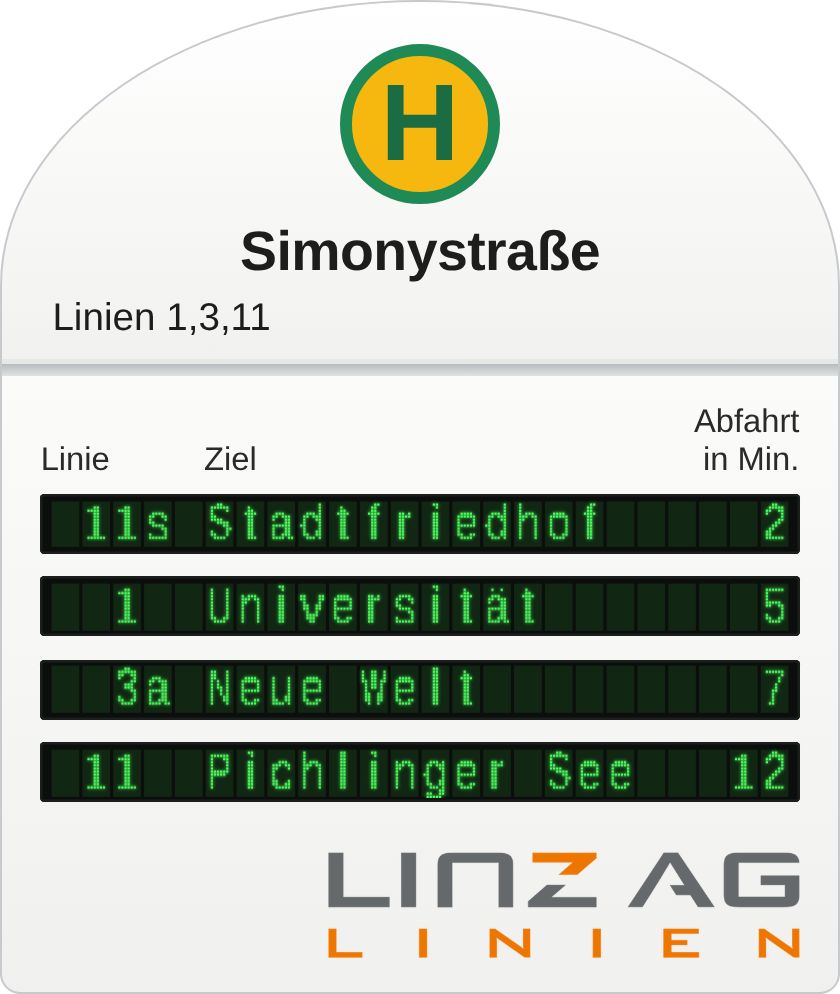
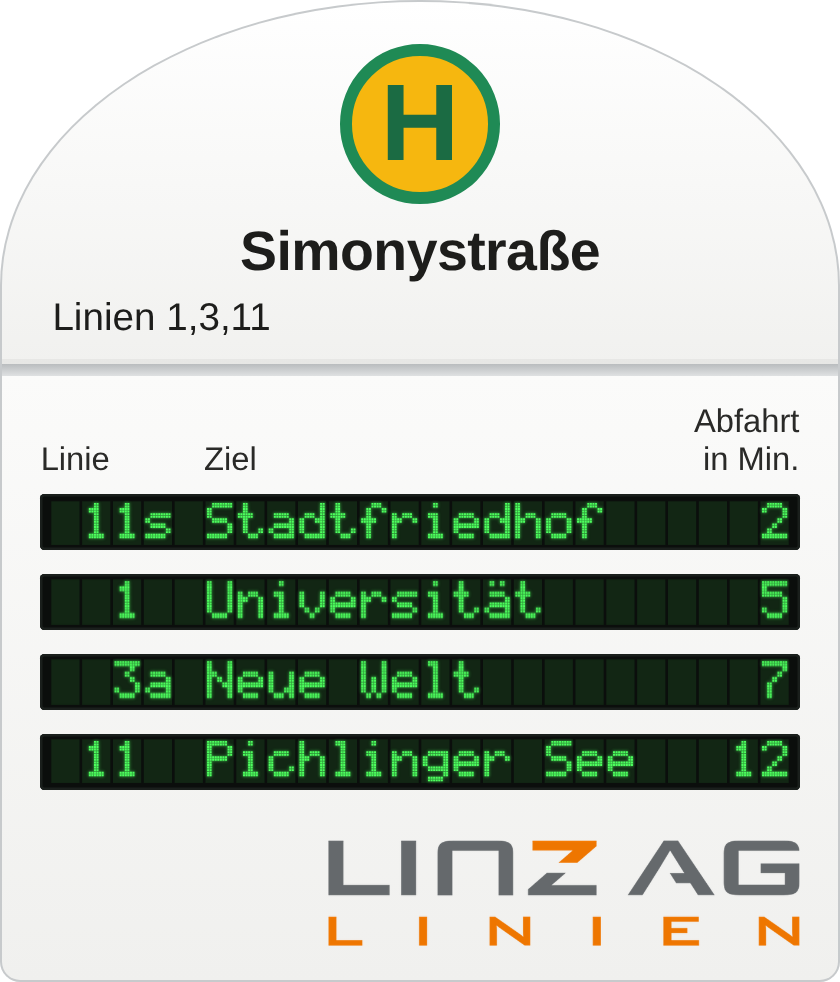
DFI: 5x7-LED-Schrift mit doppelten Punkten, Kurzname Stieglbauernstr.
- eigene 5x7-Punkt-Schrift (wie an der echten Anzeige), jeder Schrift-Punkt
  als 2x2 feine LED-Punkte -> Striche 2 Punkte dick, m/a/e bleiben offen
- 88 Zeichen inkl. Ä Ö Ü ß und Satzzeichen, Akzente werden vereinfacht (é -> e)
- quadratische Punkte, Zeichenfeld 12 x 18 Punkte
- Kurzname nur in der DFI: Stieglbauernstraße -> Stieglbauernstr.
- README, Vorschaubild und Animation aktualisiert

Claude-Session: https://claude.ai/code/session_01UGasuBwGSLjhjSTvDMnsjH

diff --git a/custom_components/linz_ag_monitor/frontend/linz-linien-combined.js b/custom_components/linz_ag_monitor/frontend/linz-linien-combined.js
@@ -53,20 +53,110 @@ const LINZ_ASSET_BASE = (() => {
 
 // LED-Raster der Haltestellen-Säule: 24 Zeichen, Zeichenfeld 10 x 16 Punkte, Glyphe 8 x 14 Punkte
 const STELE_COLS = 24;
-const STELE_CELL_W = 10;
-const STELE_CELL_H = 16;
-const STELE_GLYPH_W = 8;
-const STELE_FONT_PX = 16.5;
-const STELE_BASELINE = 12.6;
-const STELE_THRESHOLD = 110;
-const STELE_MIN_W = 3;               // Abfahrtsminuten: Feld 22-24
-const STELE_FONT_WEIGHT = "normal";   // "bold" = dickere Zeichen
+const STELE_DOT = 2;                  // 1 Schrift-Punkt = 2 x 2 LED-Punkte ("doppelte Punkte")
+const STELE_CELL_W = 12;              // Zeichenfeld: 5 x 2 = 10 Punkte + je 1 Rand
+const STELE_CELL_H = 18;              // 8 x 2 = 16 Punkte + je 1 Rand
+const STELE_MIN_W = 3;                // Abfahrtsminuten: Feld 22-24
+const STELE_DOT_ASPECT = 1;           // 1 = quadratische LED-Punkte (größer = höhere, schlankere Zeichen)
+// 5x8-LED-Schrift wie an der echten Anzeige (Zeile 0-6 Zeichen, Zeile 7 Unterlänge).
+// Jede Zeile = 5 Bits (links = höchstes Bit). Jeder Schrift-Punkt wird als 2x2 feine LED-Punkte gezeichnet.
+const STELE_FONT = {
+  "0": [14,17,19,21,25,17,14,0],
+  "1": [4,12,4,4,4,4,14,0],
+  "2": [14,17,1,2,4,8,31,0],
+  "3": [31,2,4,2,1,17,14,0],
+  "4": [2,6,10,18,31,2,2,0],
+  "5": [31,16,30,1,1,17,14,0],
+  "6": [6,8,16,30,17,17,14,0],
+  "7": [31,1,2,4,8,8,8,0],
+  "8": [14,17,17,14,17,17,14,0],
+  "9": [14,17,17,15,1,2,12,0],
+  "A": [14,17,17,17,31,17,17,0],
+  "B": [30,17,17,30,17,17,30,0],
+  "C": [14,17,16,16,16,17,14,0],
+  "D": [28,18,17,17,17,18,28,0],
+  "E": [31,16,16,30,16,16,31,0],
+  "F": [31,16,16,30,16,16,16,0],
+  "G": [14,17,16,23,17,17,15,0],
+  "H": [17,17,17,31,17,17,17,0],
+  "I": [14,4,4,4,4,4,14,0],
+  "J": [7,2,2,2,2,18,12,0],
+  "K": [17,18,20,24,20,18,17,0],
+  "L": [16,16,16,16,16,16,31,0],
+  "M": [17,27,21,21,17,17,17,0],
+  "N": [17,17,25,21,19,17,17,0],
+  "O": [14,17,17,17,17,17,14,0],
+  "P": [30,17,17,30,16,16,16,0],
+  "Q": [14,17,17,17,21,18,13,0],
+  "R": [30,17,17,30,20,18,17,0],
+  "S": [15,16,16,14,1,1,30,0],
+  "T": [31,4,4,4,4,4,4,0],
+  "U": [17,17,17,17,17,17,14,0],
+  "V": [17,17,17,17,17,10,4,0],
+  "W": [17,17,17,21,21,21,10,0],
+  "X": [17,17,10,4,10,17,17,0],
+  "Y": [17,17,10,4,4,4,4,0],
+  "Z": [31,1,2,4,8,16,31,0],
+  "Ä": [10,0,14,17,31,17,17,0],
+  "Ö": [10,0,14,17,17,17,14,0],
+  "Ü": [10,0,17,17,17,17,14,0],
+  "a": [0,0,14,1,15,17,15,0],
+  "b": [16,16,22,25,17,17,30,0],
+  "c": [0,0,14,16,16,17,14,0],
+  "d": [1,1,13,19,17,17,15,0],
+  "e": [0,0,14,17,31,16,14,0],
+  "f": [6,9,8,28,8,8,8,0],
+  "g": [0,0,15,17,17,15,1,14],
+  "h": [16,16,22,25,17,17,17,0],
+  "i": [4,0,12,4,4,4,14,0],
+  "j": [2,0,6,2,2,2,18,12],
+  "k": [16,16,18,20,24,20,18,0],
+  "l": [12,4,4,4,4,4,14,0],
+  "m": [0,0,26,21,21,21,21,0],
+  "n": [0,0,22,25,17,17,17,0],
+  "o": [0,0,14,17,17,17,14,0],
+  "p": [0,0,30,17,17,30,16,16],
+  "q": [0,0,15,17,17,15,1,1],
+  "r": [0,0,22,25,16,16,16,0],
+  "s": [0,0,15,16,14,1,30,0],
+  "t": [8,8,28,8,8,9,6,0],
+  "u": [0,0,17,17,17,19,13,0],
+  "v": [0,0,17,17,17,10,4,0],
+  "w": [0,0,17,17,21,21,10,0],
+  "x": [0,0,17,10,4,10,17,0],
+  "y": [0,0,17,17,17,15,1,14],
+  "z": [0,0,31,2,4,8,31,0],
+  "ä": [10,0,14,1,15,17,15,0],
+  "ö": [10,0,14,17,17,17,14,0],
+  "ü": [10,0,17,17,17,19,13,0],
+  "ß": [12,18,18,20,18,17,22,0],
+  ".": [0,0,0,0,0,12,12,0],
+  ",": [0,0,0,0,0,12,4,8],
+  "-": [0,0,0,31,0,0,0,0],
+  "+": [0,4,4,31,4,4,0,0],
+  "*": [0,4,21,14,21,4,0,0],
+  "/": [1,2,2,4,8,8,16,0],
+  ":": [0,12,12,0,12,12,0,0],
+  "(": [2,4,8,8,8,4,2,0],
+  ")": [8,4,2,2,2,4,8,0],
+  "&": [12,18,20,8,21,18,13,0],
+  "'": [4,4,8,0,0,0,0,0],
+  "\"": [10,10,0,0,0,0,0,0],
+  "!": [4,4,4,4,4,0,4,0],
+  "?": [14,17,1,2,4,0,4,0],
+  "|": [4,4,4,4,4,4,4,0],
+  "<": [2,4,8,16,8,4,2,0],
+  ">": [8,4,2,1,2,4,8,0],
+  "=": [0,0,31,0,31,0,0,0],
+  "%": [24,25,2,4,8,19,3,0],
+};
 
 // Kurznamen nur für die Haltestellen-Anzeige (DFI) – die anderen Designs schreiben aus
 const STELE_DEST_SHORT = [
   [/^Fernheizkraftwerk$/i, "Fernheizwerk"],
   [/^Remise Kleinmünchen$/i, "Kleinmünchen"],
   [/^Trauner Kreuzung\s*P\s*(\+|&|und)\s*R$/i, "Trauner Kreuzung"],
+  [/^Stieglbauernstraße$/i, "Stieglbauernstr."],
 ];
 const steleShortDest = (t) => {
   const s = String(t || "").trim();
@@ -1296,8 +1386,8 @@ class LinzMonitorCombined extends HTMLElement {
             box-shadow: inset 0 0 0 0.3cqw #1a1f1c;
             padding: 0.6cqw 1.2%; box-sizing: border-box; line-height: 0;
           }
-          /* 24 Zeichen x (10 x 16 Punkte) -> Seitenverhältnis 240:16 */
-          .st-row canvas { display: block; width: 100%; aspect-ratio: 15 / 1; }
+          /* 24 Zeichen x (12 x 18 Punkte) -> Seitenverhältnis 288 : 18 (bei STELE_DOT_ASPECT 1) */
+          .st-row canvas { display: block; width: 100%; aspect-ratio: ${288 / (18 * STELE_DOT_ASPECT)} / 1; }
 
           /* --- Fußbereich --- */
           .st-foot { position: relative; margin-top: 6cqw; min-height: 10cqw; display: flex; justify-content: flex-end; align-items: flex-end; }
@@ -1463,14 +1553,9 @@ class LinzMonitorCombined extends HTMLElement {
     });
   }
 
-  /* Eine LED-Zeile zeichnen: 24 Zeichenfelder, je 8 x 14 leuchtende Punkte ("doppelte" Auflösung) */
+  /* Eine LED-Zeile zeichnen: 24 Zeichenfelder, 5x7-LED-Schrift, jeder Schrift-Punkt = 2x2 LED-Punkte */
   _drawSteleRow(cv, text, LED) {
-    const PX = STELE_CELL_W, PY = STELE_CELL_H, W = STELE_COLS * PX, H = PY;
-    if (!this._steleRaster) {
-      this._steleRaster = document.createElement("canvas");
-      this._steleRaster.width = W; this._steleRaster.height = H;
-    }
-    const rc = this._steleRaster.getContext("2d", { willReadFrequently: true });
+    const PX = STELE_CELL_W, PY = STELE_CELL_H, W = STELE_COLS * PX, H = PY, D = STELE_DOT;
 
     const m = /^#?([0-9a-f]{6})$/i.exec(String(LED).trim());
     let cellColor = "#132016";
@@ -1481,39 +1566,41 @@ class LinzMonitorCombined extends HTMLElement {
 
     const dpr = window.devicePixelRatio || 1;
     const cssW = cv.clientWidth || 300;
-    const cw = Math.max(W, Math.round(cssW * dpr)), ch = Math.round(cw * H / W);
+    const cw = Math.max(W, Math.round(cssW * dpr)), ch = Math.round(cw * H * STELE_DOT_ASPECT / W);
     if (cv.width !== cw || cv.height !== ch) { cv.width = cw; cv.height = ch; }
     const ctx = cv.getContext("2d");
-    const dot = cw / W;
-
-    // Text klein rastern (1 Pixel = 1 LED-Punkt)
-    rc.clearRect(0, 0, W, H);
-    rc.fillStyle = "#fff";
-    rc.font = `${STELE_FONT_WEIGHT} ${STELE_FONT_PX}px Arial, Helvetica, sans-serif`;
-    rc.textBaseline = "alphabetic";
-    Array.from(text).slice(0, STELE_COLS).forEach((c, i) => {
-      if (c === " ") return;
-      const w = Math.min(rc.measureText(c).width, STELE_GLYPH_W);
-      rc.fillText(c, i * PX + 1 + (STELE_GLYPH_W - w) / 2, STELE_BASELINE, STELE_GLYPH_W);
-    });
-    const px = rc.getImageData(0, 0, W, H).data;
+    const dot = cw / W, dotY = dot * STELE_DOT_ASPECT;
 
     // Hintergrund + dunkle Zeichenfelder (alle gleich groß)
     ctx.fillStyle = "#0b0e0c";
     ctx.fillRect(0, 0, cw, ch);
     ctx.fillStyle = cellColor;
     for (let i = 0; i < STELE_COLS; i++) {
-      ctx.fillRect((i * PX + 0.5) * dot, 0.5 * dot, (PX - 1) * dot, (PY - 1) * dot);
+      ctx.fillRect((i * PX + 0.5) * dot, 0.5 * dotY, (PX - 1) * dot, (PY - 1) * dotY);
     }
 
-    // leuchtende Punkte (quadratisch, schmale Fuge, leichtes Leuchten)
-    const gap = dot * 0.14;
+    // leuchtende Punkte
+    const gap = dot * 0.12;
     ctx.beginPath();
-    for (let y = 0; y < H; y++) {
-      for (let x = 0; x < W; x++) {
-        if (px[(y * W + x) * 4 + 3] > STELE_THRESHOLD) ctx.rect(x * dot + gap, y * dot + gap, dot - 2 * gap, dot - 2 * gap);
+    Array.from(text).slice(0, STELE_COLS).forEach((c, i) => {
+      let g = STELE_FONT[c];
+      if (!g) {
+        const plain = c.normalize("NFD").replace(/[̀-ͯ]/g, "");   // é -> e usw.
+        g = STELE_FONT[plain] || STELE_FONT[plain.toUpperCase()] || null;
       }
-    }
+      if (!g) return;
+      for (let r = 0; r < 8; r++) {
+        const bits = g[r];
+        if (!bits) continue;
+        for (let col = 0; col < 5; col++) {
+          if (!(bits & (16 >> col))) continue;
+          for (let dy = 0; dy < D; dy++) for (let dx = 0; dx < D; dx++) {
+            const x = i * PX + 1 + col * D + dx, y = 1 + r * D + dy;
+            ctx.rect(x * dot + gap, y * dotY + gap, dot - 2 * gap, dotY - 2 * gap);
+          }
+        }
+      }
+    });
     ctx.fillStyle = LED;
     ctx.shadowColor = LED;
     ctx.shadowBlur = dot * 1.2;

diff --git a/README.md b/README.md
@@ -15,7 +15,7 @@ Live‑Daten der Linz AG Linien, smarte Einrichtung per Text- oder Kartensuche u
 ---
 
 ## 🆕 Neu in v1.8.3
-* **Haltestellen-Säule:** dünnere LED-Zeichen, Kurznamen wie an der echten Anzeige (Fernheizwerk, Kleinmünchen, Trauner Kreuzung) und feste 24-Felder-Zeilen wie am Original – Linie (Feld 1–3), Zusatz wie `a`, `*`, `s` (Feld 4), Ziel bzw. Sonderinformation (Feld 6–21, läuft bei Überlänge Feld für Feld durch), Abfahrtsminuten (Feld 22–24, max. 99 Minuten). Zusatzinfos wie „Verspätung bitte Geduld“ wechseln sich mit dem Ziel ab. Doppelt so feine LED-Punkte.
+* **Haltestellen-Säule:** neue 5 × 7-LED-Schrift wie am Original (jeder Punkt doppelt), Kurznamen wie an der echten Anzeige (Fernheizwerk, Kleinmünchen, Trauner Kreuzung, Stieglbauernstr.) und feste 24-Felder-Zeilen wie am Original – Linie (Feld 1–3), Zusatz wie `a`, `*`, `s` (Feld 4), Ziel bzw. Sonderinformation (Feld 6–21, läuft bei Überlänge Feld für Feld durch), Abfahrtsminuten (Feld 22–24, max. 99 Minuten). Zusatzinfos wie „Verspätung bitte Geduld“ wechseln sich mit dem Ziel ab. 
 
 ## 🆕 Neu in v1.8.0
 * **5. Design „Haltestellen-Säule“:** Originalgetreuer Nachbau der Linz AG Anzeige an der Haltestelle – H-Schild, Haltestellenname, Linien-Zeile und grüne LED-Zeilen mit fester 24-Felder-Matrix (feine Punkte, 8 × 14 pro Zeichen, Laufschrift für lange Ziele und Zusatzinfos) und Linz AG Linien Logo (nur die Tafel, ohne Mast). Das Logo wird lokal aus der Integration geladen.
@@ -98,8 +98,8 @@ Originalgetreuer Nachbau der dynamischen Fahrgastinformation (DFI) an den Linz A
 
 * **Laufschrift:** Ist ein Ziel oder eine Information länger als 16 Felder, läuft der Text Feld für Feld nach links – mit kurzer Pause am Anfang und am Ende, damit jedes Wort lesbar ist.
 * **Sonderinformationen** wie „Verspätung bitte Geduld“ oder „Fällt aus“ wechseln sich im Zielfeld mit dem Ziel ab.
-* **Kurznamen wie an der echten Anzeige** (nur in diesem Design): Fernheizkraftwerk → *Fernheizwerk*, Remise Kleinmünchen → *Kleinmünchen*, Trauner Kreuzung P+R → *Trauner Kreuzung*.
-* **Feine LED-Punkte:** 8 × 14 Punkte pro Zeichen, quadratisch mit schmaler Fuge.
+* **Kurznamen wie an der echten Anzeige** (nur in diesem Design): Fernheizkraftwerk → *Fernheizwerk*, Remise Kleinmünchen → *Kleinmünchen*, Trauner Kreuzung P+R → *Trauner Kreuzung*, Stieglbauernstraße → *Stieglbauernstr.*
+* **LED-Schrift wie am Original:** klassische 5 × 7-Punkt-Schrift, jeder Schrift-Punkt als 2 × 2 feine LED-Punkte gezeichnet – Striche 2 Punkte dick, inkl. Ä, Ö, Ü, ß.
 * **Kopf:** H-Schild, Haltestellenname und Linien-Zeile (automatisch aus den Abfahrten oder selbst eingetragen).
 * **Unten rechts** das Linz AG Linien Logo (wird lokal aus der Integration geladen), optional eine kleine Uhrzeit links.
 * Wie an der echten Anzeige erscheinen nur Abfahrten bis 99 Minuten; die Anzeige ist immer in Minuten.
